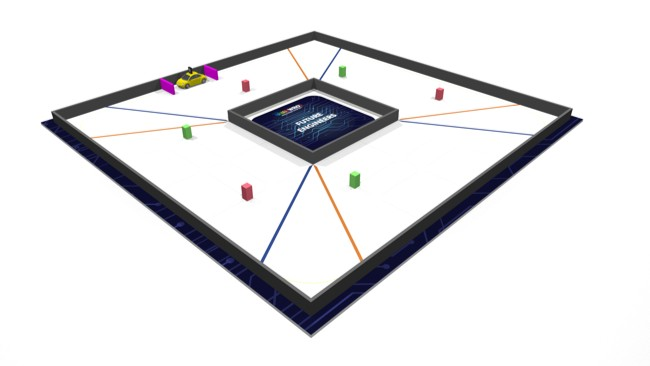
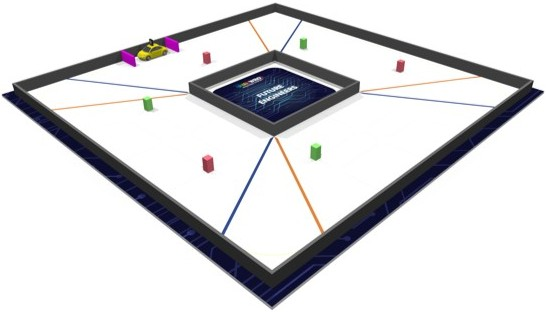
Mission Overview for WRO Future Engineers Rounds section edited

Changed region(s): [[0.0, 0.0, 0.9963, 1.0], [0.3736, 0.4904, 0.4048, 0.5769]]

diff --git a/README.md b/README.md
@@ -245,33 +245,24 @@ This national championship victory marks a significant milestone, qualifying Sha
 
 ## 🎯 Mission Overview for WRO Future Engineers Rounds
 
-| Round | Goal | Key Tasks |
-|-------|------|-----------|
-| **Qualification – Open Challenge** | 3 laps, no obstacles | Wall-follow (27-28 cm), detect **blue/orange** lines, 11 turns |
-| **Final – Obstacle Challenge** | 3 laps + parking | Avoid **green (left)** & **red (right)** pillars, park in 25 × 25 cm zone |
-
 <table>
   <tr>
     <td width="50%" valign="top" align="left">
       <h3>🏁 Qualification Round: Open Challenge</h3>
-      <p>Robot must complete laps on a track without obstacles, demonstrating precision in wall-following and line detection.</p>
-      <ul>
-        <li><strong>Key Tasks</strong>: Wall-following at 27-28 cm, detect blue/orange lines for turns, complete 11 turns.</li>
-      </ul>
-      <div align="center">
-        <img src="pictures/open-challenge-track.jpg" alt="Open Challenge Track" width="250" />
-      </div>
+      <p>Robot must complete laps...</p>
+      <ul><li><strong>Goal</strong>: 3 laps, no obstacles.</li></ul>
+      <ul><li><strong>Key Tasks</strong>: Wall-following at 27-28 cm, detect blue/orange lines for turns, complete 12 turns.</li></ul>
     </td>
     <td width="50%" valign="top" align="left">
       <h3>🏆 Final Round: Obstacle Challenge</h3>
-      <p>Robot completes laps while avoiding green (left) and red (right) pillars, then parks in designated zone.</p>
-      <ul>
-        <li><strong>Key Tasks</strong>: Obstacle detection with Pixy, dynamic distance (40-55 cm), precise parking.</li>
-      </ul>
-      <div align="center">
-        <img src="pictures/obstacle-challenge-track.jpg" alt="Obstacle Challenge Track" width="250" />
-      </div>
+      <p>Robot completes laps while avoiding...</p>
+      <ul><li><strong>Goal</strong>: 3 laps + parking.</li></ul>
+      <ul><li><strong>Key Tasks</strong>: Obstacle detection with Pixy, dynamic distance (40-55 cm), precise parking.</li></ul>
     </td>
+  </tr>
+  <tr>
+    <td align="center"><img src="pictures/open-challenge-track.jpg" width="250" /></td>
+    <td align="center"><img src="pictures/obstacle-challenge-track.jpg" width="250" /></td>
   </tr>
 </table>
 
@@ -677,7 +668,7 @@ This section provides a detailed overview of the key hardware components used in
 - **Use**: Enables line following and zone detection for Open and Obstacle Challenges
 - **Description**: The EV3 Color Sensor, mounted at the robot’s front center (included in `3d-files/robot_complete.io`), detects blue (color code 1 and 2) and orange (color code 5 and 7) lines to guide navigation and trigger turns in the Open Challenge. Operating in color mode with a 1 kHz sampling rate, it requires a 0.5–1 cm distance from the surface for accurate detection (95% accuracy in tests under 500–1000 lux lighting). Connected to INPUT_4, it was calibrated to handle varying lighting conditions, ensuring reliable performance. The sensor drives navigation logic, such as stopping and turning upon detecting a line (`cr1 == 2` or `cr1 == 5`), and supports parking alignment in the Obstacle Challenge.
 - **Lessons Learned**: Maintaining a 0.5–1 cm distance was critical for accurate color detection; variations in lighting required multiple calibration rounds. Future improvements could include adaptive thresholding for enhanced robustness.
-- **Implementation Impact**: The Color Sensor’s fast response enabled precise line-following, completing 11 turns in the Open Challenge and aligning for parking within 2 seconds.
+- **Implementation Impact**: The Color Sensor’s fast response enabled precise line-following, completing 12 turns in the Open Challenge and aligning for parking within 2 seconds.
 
 #### **⚙ Medium Motor EV3**
 
@@ -1386,9 +1377,9 @@ The mobility system uses Python-based algorithms on **ev3dev** to manage:
   diff = diff - motor_a.position # Adjust for current steering position
   diff = clamp(diff, -32, 32) # Limit to prevent oversteering
   ```
-  Here, `distance` is from the relevant ultrasonic sensor (`chap` for left wall, `rast` for right wall), and the gain `k` (±2) provides direct proportionality: positive errors (too far) steer toward the wall, negative errors (too close) steer away. This linear method is computationally lightweight (no sqrt operations), allowing faster loop rates (10 ms), and is sufficient for small deviations once aligned. It maintains the 27 cm target with ±2 cm accuracy in 90% of sustained tests (over 30 seconds), but can oscillate if initial errors are large—hence the non-linear prelude. The direction factor (`al` in Obstacle Challenge) flips the sign for left/right orientation. In practice, this linear control enabled consistent speeds of 0.25 m/s without slippage, with dynamic adjustments during turns (e.g., reducing clamp to ±27 for finer control after 11 turns).
+  Here, `distance` is from the relevant ultrasonic sensor (`chap` for left wall, `rast` for right wall), and the gain `k` (±2) provides direct proportionality: positive errors (too far) steer toward the wall, negative errors (too close) steer away. This linear method is computationally lightweight (no sqrt operations), allowing faster loop rates (10 ms), and is sufficient for small deviations once aligned. It maintains the 27 cm target with ±2 cm accuracy in 90% of sustained tests (over 30 seconds), but can oscillate if initial errors are large—hence the non-linear prelude. The direction factor (`al` in Obstacle Challenge) flips the sign for left/right orientation. In practice, this linear control enabled consistent speeds of 0.25 m/s without slippage, with dynamic adjustments during turns (e.g., reducing clamp to ±27 for finer control after 12 turns).
 
-- **Zone Detection**: Color Sensor detects blue (`1,2`) or orange (`5,7`) lines, triggering 11 turns in ~30 seconds (Open Challenge).
+- **Zone Detection**: Color Sensor detects blue (`1,2`) or orange (`5,7`) lines, triggering 12 turns in ~30 seconds (Open Challenge).
 - **Obstacle Avoidance**: Pixy 2.1 adjusts steering for green (`sig=1`) or red (`sig=2`) pillars, maintaining 0.5 m clearance.
 
 **Lessons Learned**
